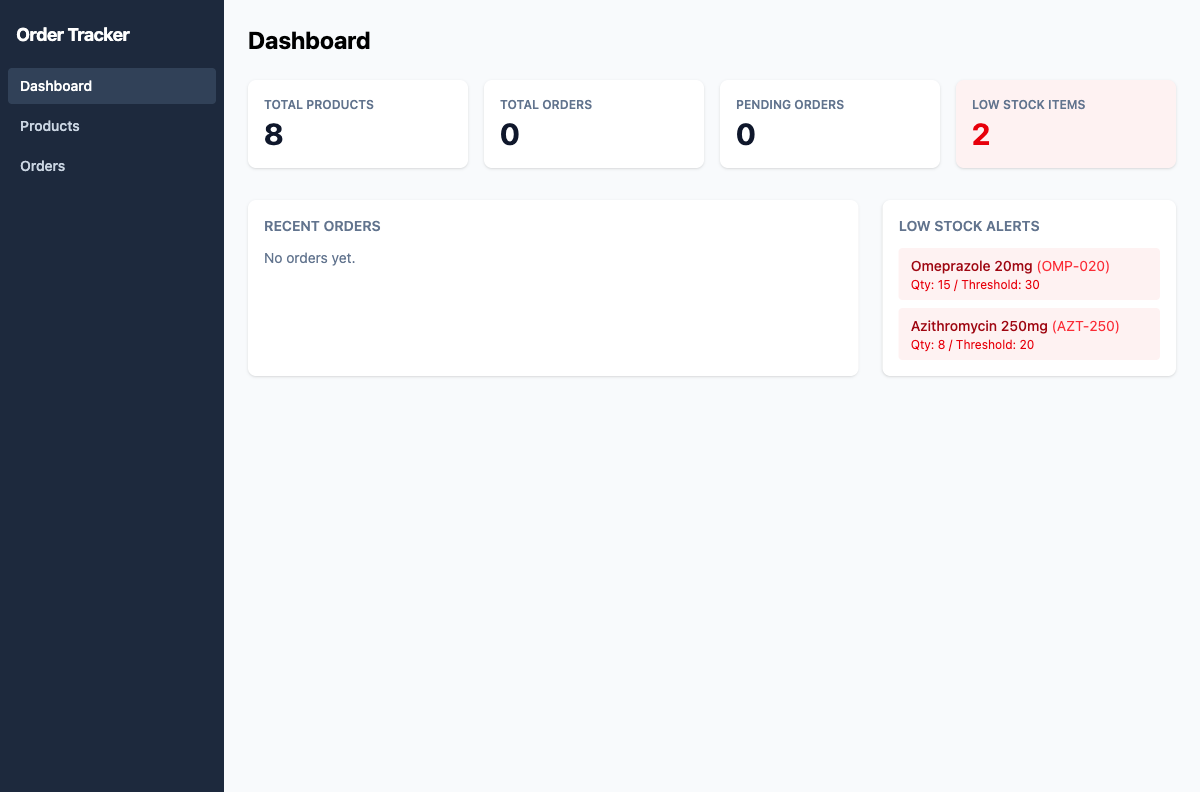
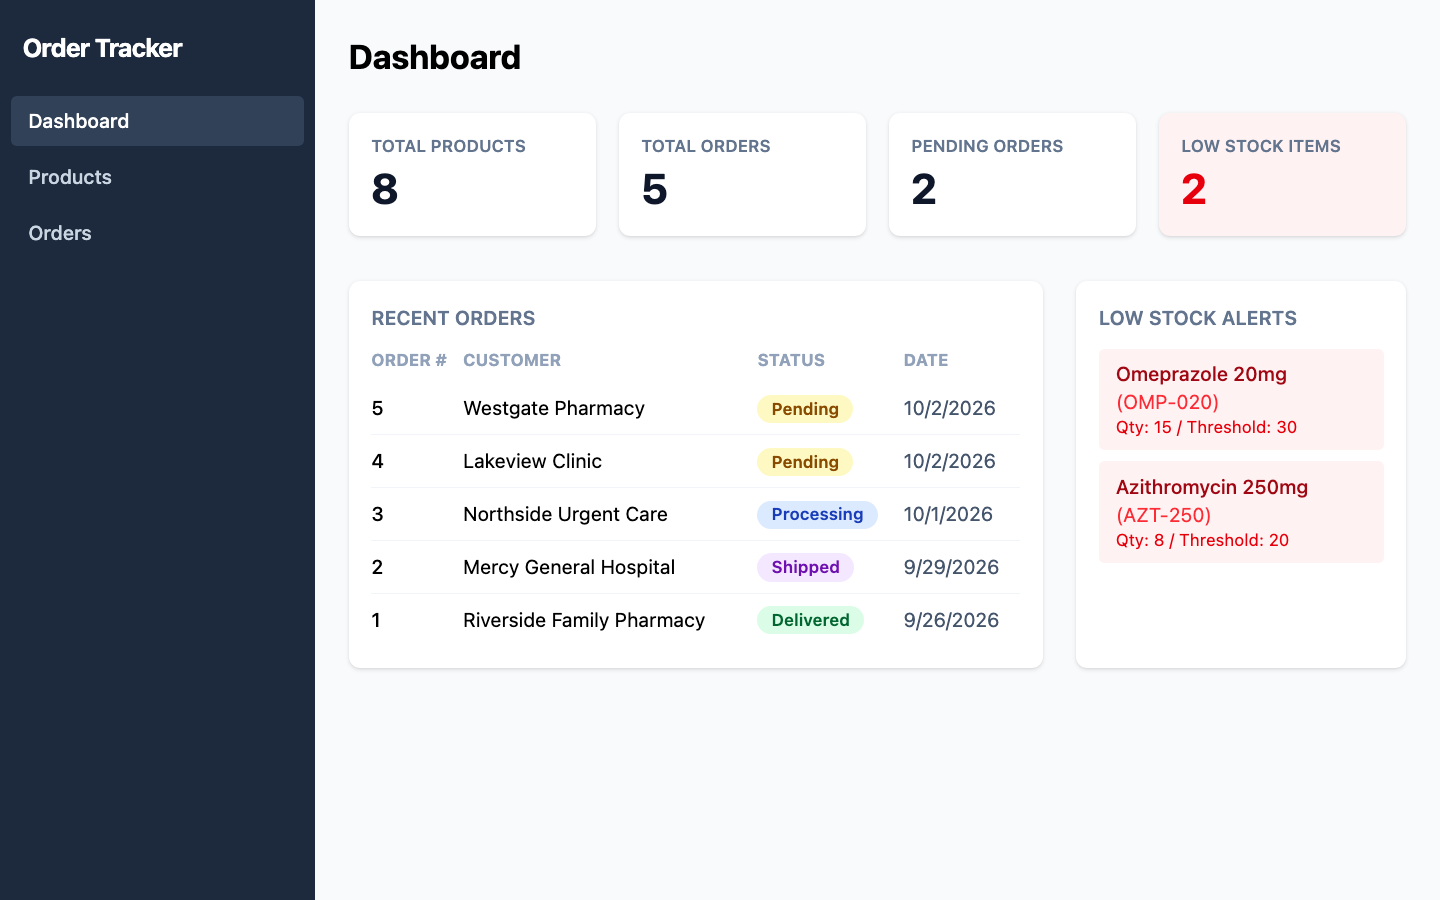
Projects: refresh Inventory & Order Tracker screenshot; drop RDS from its stack
New 16:10 capture of the live demo so the card shows the full dashboard
instead of cropping the bottom. The app moved off RDS to embedded SQLite,
so the deployment highlight now describes App Runner plus S3/CloudFront.

diff --git a/src/data/projects.ts b/src/data/projects.ts
@@ -142,7 +142,7 @@ export const projects: Project[] = [
 		highlights: [
 			"Built product, order and inventory workflows with strict status transitions and automatic stock deduction.",
 			"Designed low-stock alerts and an audit trail around real operational requirements.",
-			"Deployed the React and ASP.NET Core application on AWS App Runner, RDS and CloudFront.",
+			"Deployed the containerized ASP.NET Core API on AWS App Runner and the React UI on S3 and CloudFront.",
 		],
 		tech: ["C#", "ASP.NET Core", "React", "AWS"],
 		image: inventoryOrderTracker,
